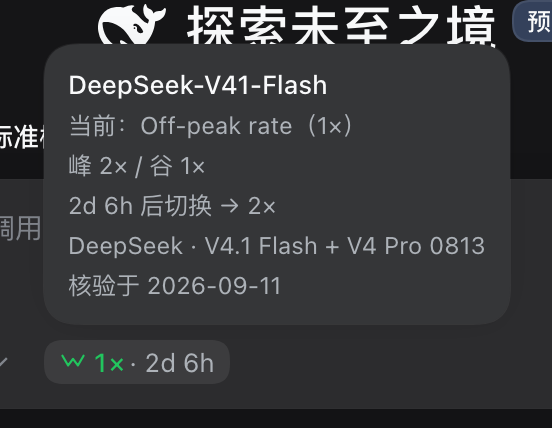
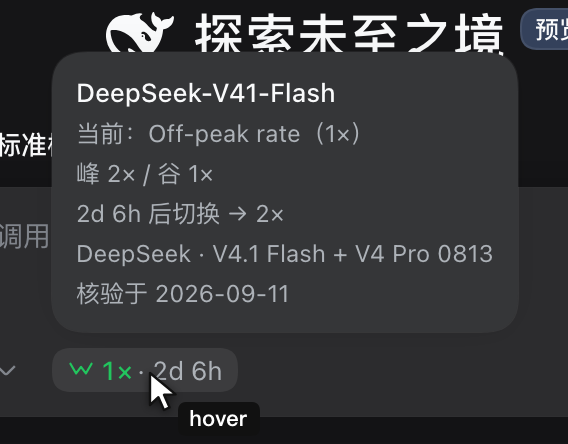
docs: hover 截图加光标标注 + 0.2.0 版本与 CHANGELOG
1) hover 截图此前**看不出触发点** —— 读者不知道这个浮层是怎么冒出来的。
   Playwright 截不到系统光标，故截图前**临时在页面里画一个光标箭头 + `hover` 标签**
   指向徽章（仅注入到截图，不进代码），现在「悬停徽章 → 浮层出现」一目了然。

2) 版本 0.1.0 → **0.2.0**，并修正一处 CHANGELOG 遗漏：
   **实时目录通道其实已在 0.1.0 里发出**（写 CHANGELOG 时它还没实现），
   现补进 0.1.0 的 Added，并把 0.2.0 定为「hover 改为自绘浮层 + 浮层首行改为当前模型
   + customProfiles 文档修正」。

162 单测全绿。

diff --git a/CHANGELOG.md b/CHANGELOG.md
@@ -7,11 +7,35 @@ and this project adheres to [Semantic Versioning](https://semver.org/spec/v2.0.0
 
 ## [Unreleased]
 
+## [0.2.0] - 2026-09-12
+
+### Changed
+
+- **The rate detail is now an in-page card, not an OS tooltip.** Hovering (or keyboard-focusing)
+  the composer badge opens a card drawn by the plugin, so it follows the light/dark theme
+  instead of the operating system's tooltip styling, appears without the native delay, and is
+  reachable by keyboard. It is also part of the documentation now — an OS tooltip cannot be
+  captured, an in-page card can.
+- **The card leads with the model you hovered.** The first line is the current model's display
+  name (`DeepSeek-V41-Flash`), matching the composer trigger. The matched profile's coverage —
+  which can span several models that share one schedule, e.g. `V4.1 Flash + V4 Pro 0813` — is now
+  a secondary line rather than the headline.
+- **Documentation fix:** `customProfiles` was described as host-side only, "not affecting the
+  badges". That stopped being true once the host began serving its merged catalog to the page —
+  a custom profile now takes part in badge judgement exactly like a bundled one.
+
 ## [0.1.0] - 2026-09-12
 
 First public release.
 
 ### Added
+
+- **Live catalog with a fenced route.** The host refreshes the shared catalog at boot and every
+  `refreshIntervalHours` (default 24h), validates it, caches it to disk, and serves it to the page
+  over **`GET /peakrate/catalog`** (with **`POST`** to force a re-fetch — the *Refresh now* button).
+  A data update therefore reaches the badges **without rebuilding or reinstalling the plugin**;
+  the bundled snapshot remains as an offline fallback. The route applies the same browser-trust
+  fence as the harness's own `/api` route (DNS-rebinding and cross-site defences).
 
 - **Per-provider peak / off-peak rate badges.** Each provider is judged by its own
   IANA time zone and schedule — not by DeepSeek-only hours. A model shows the rate
@@ -33,6 +57,8 @@ First public release.
   provider × model set and flags providers that need a decision.
 - Bundled catalog snapshot (`data/pricing.json`, schemaVersion 1) with a 24-hour
   background refresh and a disk cache.
+- **A fenced route serving the live catalog to the page** (`GET`/`POST /peakrate/catalog`),
+  so catalog updates reach the badges without a rebuild.
 
 ### Design notes
 
@@ -46,7 +72,8 @@ First public release.
 - Campaign overrides reject zero-length windows and malformed dates at parse time,
   because the catalog is fetched at runtime.
 
-[Unreleased]: https://github.com/log-li/dsh-peakrate/compare/v0.1.0...HEAD
+[Unreleased]: https://github.com/log-li/dsh-peakrate/compare/v0.2.0...HEAD
+[0.2.0]: https://github.com/log-li/dsh-peakrate/compare/v0.1.0...v0.2.0
 [0.1.0]: https://github.com/log-li/dsh-peakrate/releases/tag/v0.1.0
 
 # 更新日志
@@ -78,6 +105,19 @@ First public release.
 - **`npm run audit`** —— 离线覆盖穷举：枚举运行时的 provider × model 集合，
   挑出需要人工决策的 provider。
 - 内置目录快照（`data/pricing.json`，schemaVersion 1），24 小时后台刷新 + 磁盘缓存。
+- **把实时目录下发给页面的带围栏路由**（`GET`/`POST /peakrate/catalog`），
+  目录更新无需重新构建即可到达徽章。
+
+### 变更（0.2.0）
+
+- **倍率详情改为页面内浮层，不再用系统 tooltip**：悬停（或键盘聚焦）composer 徽章时，
+  浮层由插件自己绘制 —— 跟随明暗主题、无原生延迟、键盘可达；而且**能被截图**，
+  系统 tooltip 做不到。
+- **浮层第一行改为「你悬停的那个模型」**（如 `DeepSeek-V41-Flash`，与触发器一致）；
+  命中的 profile 覆盖范围（同一个 profile 常覆盖多个共用时段规则的模型，
+  如 `V4.1 Flash + V4 Pro 0813`）降为次要行。
+- **文档修正**：`customProfiles` 原写「仅 host 侧生效、不影响徽章」。自 host 开始把合并后的
+  目录下发给页面起，该说法已不成立 —— 自定义 profile 与内置条目一样参与徽章判定。
 
 ### 设计取舍
 
@@ -87,5 +127,6 @@ First public release.
 - 跨午夜窗口归属**它开始的那一天** —— override 与常规峰时窗口语义一致。
 - 活动 override 在**解析期**就拒绝零长度窗口与非法日期，因为目录是运行时拉取的。
 
-[Unreleased]: https://github.com/log-li/dsh-peakrate/compare/v0.1.0...HEAD
+[Unreleased]: https://github.com/log-li/dsh-peakrate/compare/v0.2.0...HEAD
+[0.2.0]: https://github.com/log-li/dsh-peakrate/compare/v0.1.0...v0.2.0
 [0.1.0]: https://github.com/log-li/dsh-peakrate/releases/tag/v0.1.0

diff --git a/README.md b/README.md
@@ -84,7 +84,7 @@ Every shape of rate is in play above: `2×` peak, `1×` and `0.5×` off-peak, a 
 
 **Hover the badge** for the full picture — which model, which state, the peak/off-peak spread,
 when it switches and to what, and which profile it matched. The card is drawn by the plugin
-itself (not an OS tooltip), so it follows the theme and reads the same in light and dark:
+itself (not an OS tooltip), so it follows the theme and is reachable by keyboard focus too:
 
 <img src="docs/hover-card.png" width="380" alt="Hover detail card" />
 
